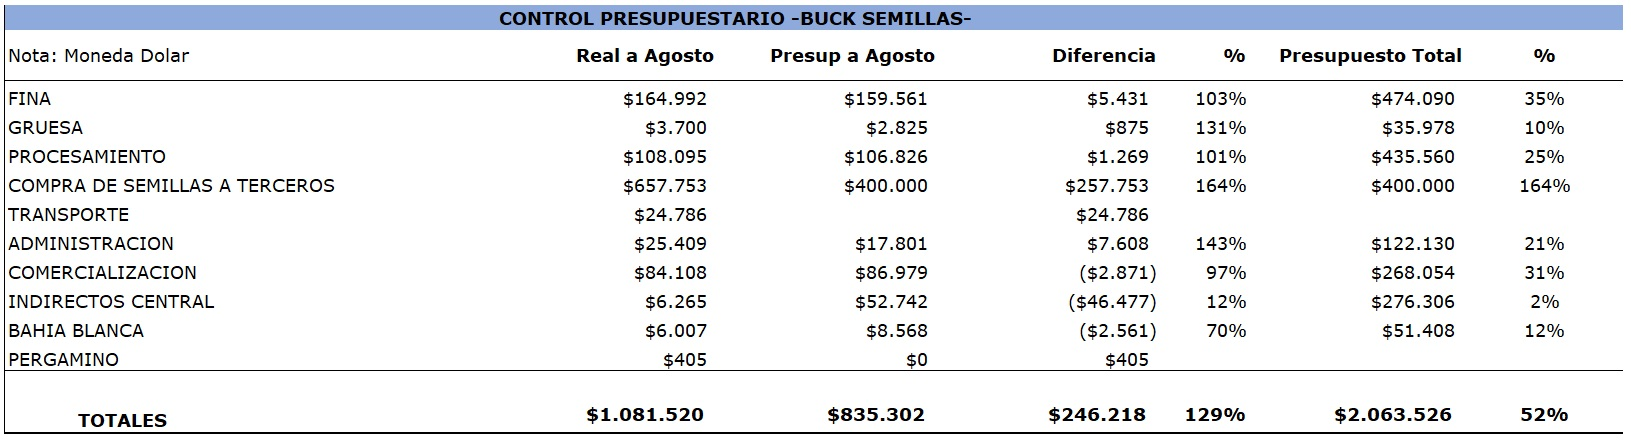
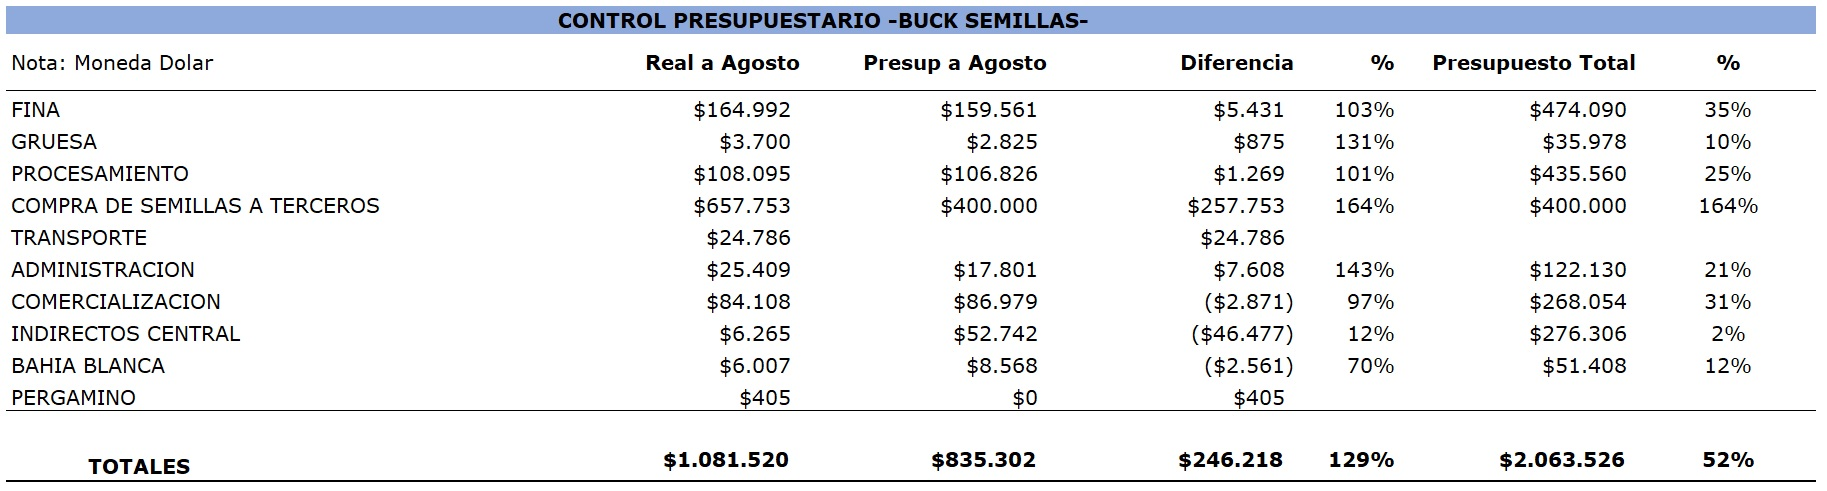
mejor calidad

diff --git a/pages/Presupuesto/index.vue b/pages/Presupuesto/index.vue
@@ -14,10 +14,14 @@
 
         <v-container fluid grid-list-md text-xs-center>
           <v-layout row wrap>
-            <img src="/Tabla1.jpg" title="" alt="">
+            <!-- <v-spacer></v-spacer> -->
+            <img src="/Tabla1.jpg" title="" alt="" class="responsive">
+            <!-- <v-spacer></v-spacer> -->
           </v-layout>
-          <v-layout row wrap>
-            <img src="/Tabla2.jpg" title="" alt="">
+          <v-layout row wrap style="margin-top: 40px">
+            <!-- <v-spacer></v-spacer> -->
+            <img src="/Tabla2.jpg" title="" alt="" class="responsivee">
+            <!-- <v-spacer></v-spacer> -->
           </v-layout>
         </v-container>
 
@@ -32,3 +36,20 @@ export default {
   layout: 'DBB'
 }
 </script>
+
+<style>
+
+.responsive {
+  width: 100%;
+  max-width: 1900px;
+  height: auto;
+  margin:auto;
+}
+.responsivee {
+  width: 100%;
+  max-width: 1000px;
+  height: auto;
+  margin:auto;
+}
+
+</style>
